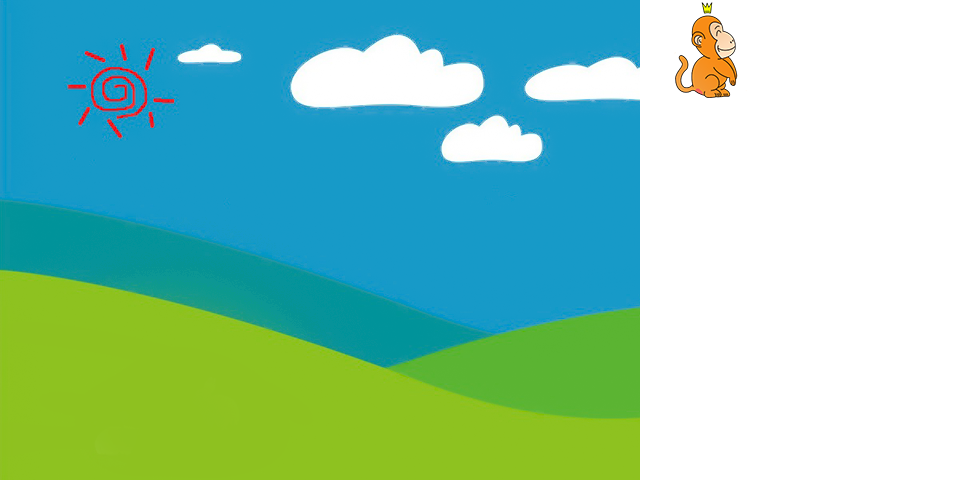
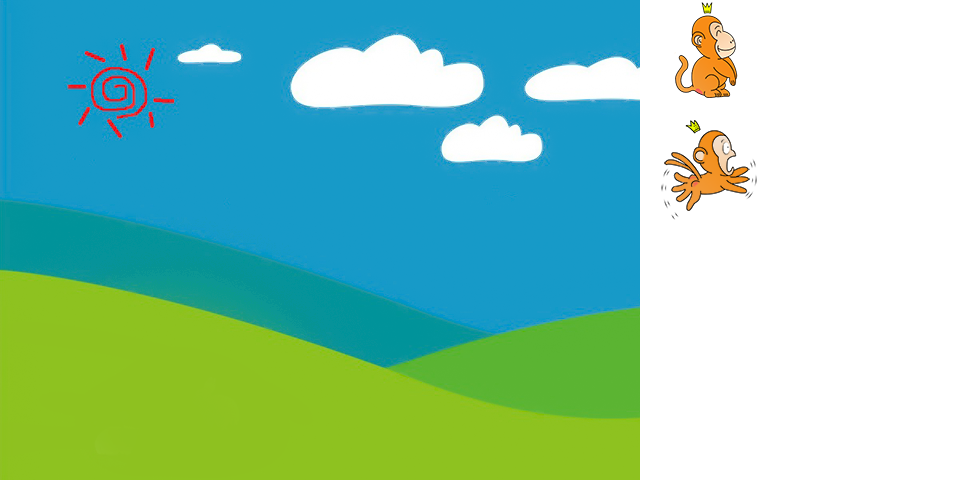
update

Changed region(s): [[0.6875, 0.25, 0.7812, 0.4375]]

diff --git a/jump2D/jump2D.js b/jump2D/jump2D.js
@@ -91,7 +91,7 @@ function Monkey() {
   this.state;
   this.position = [
     [660, 0],
-    [660, 0]
+    [660, 120]
   ];
 
   this.init = function() {
@@ -121,6 +121,10 @@ function Monkey() {
     cxt.drawImage(data.image, this.position[this.state][0], this.position[this.state][1], 100, 100, -50, -100, 100, 100);
     cxt.restore();
   }
+}
+
+function Roof(){
+  
 }
 
 function powerGroove() {
